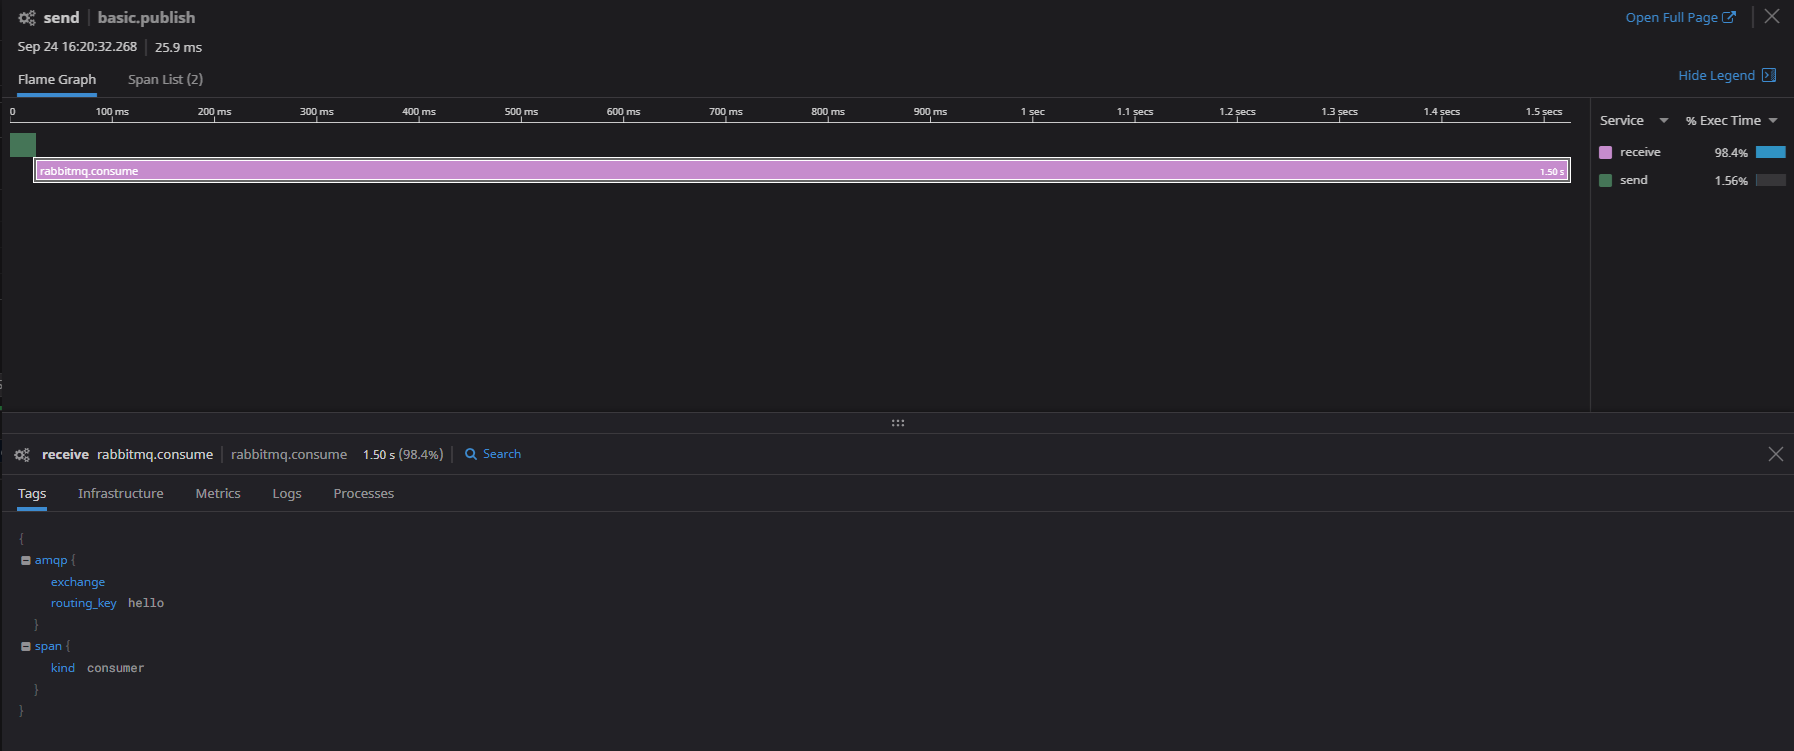
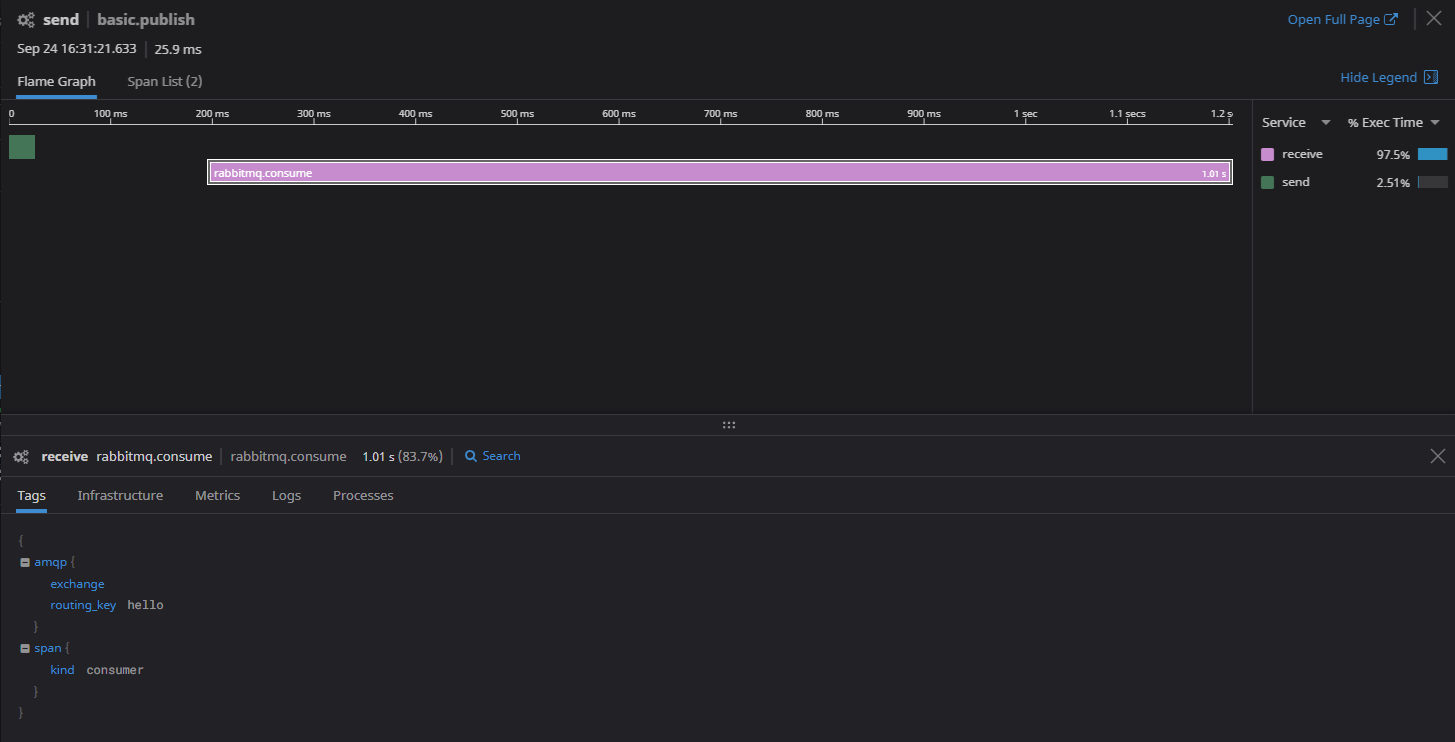
Reduce amount of "work" time in receiver and update image

diff --git a/customer-samples/RabbitMQ.Sample/Receive/Receive.cs b/customer-samples/RabbitMQ.Sample/Receive/Receive.cs
@@ -91,7 +91,7 @@ namespace Receive
                             span.SetTag("amqp.routing_key", ea.RoutingKey);
 
                             // Do work inside the Datadog trace
-                            Thread.Sleep(1500);
+                            Thread.Sleep(1000);
                         }
                     };
                     channel.BasicConsume(queue: "hello",
